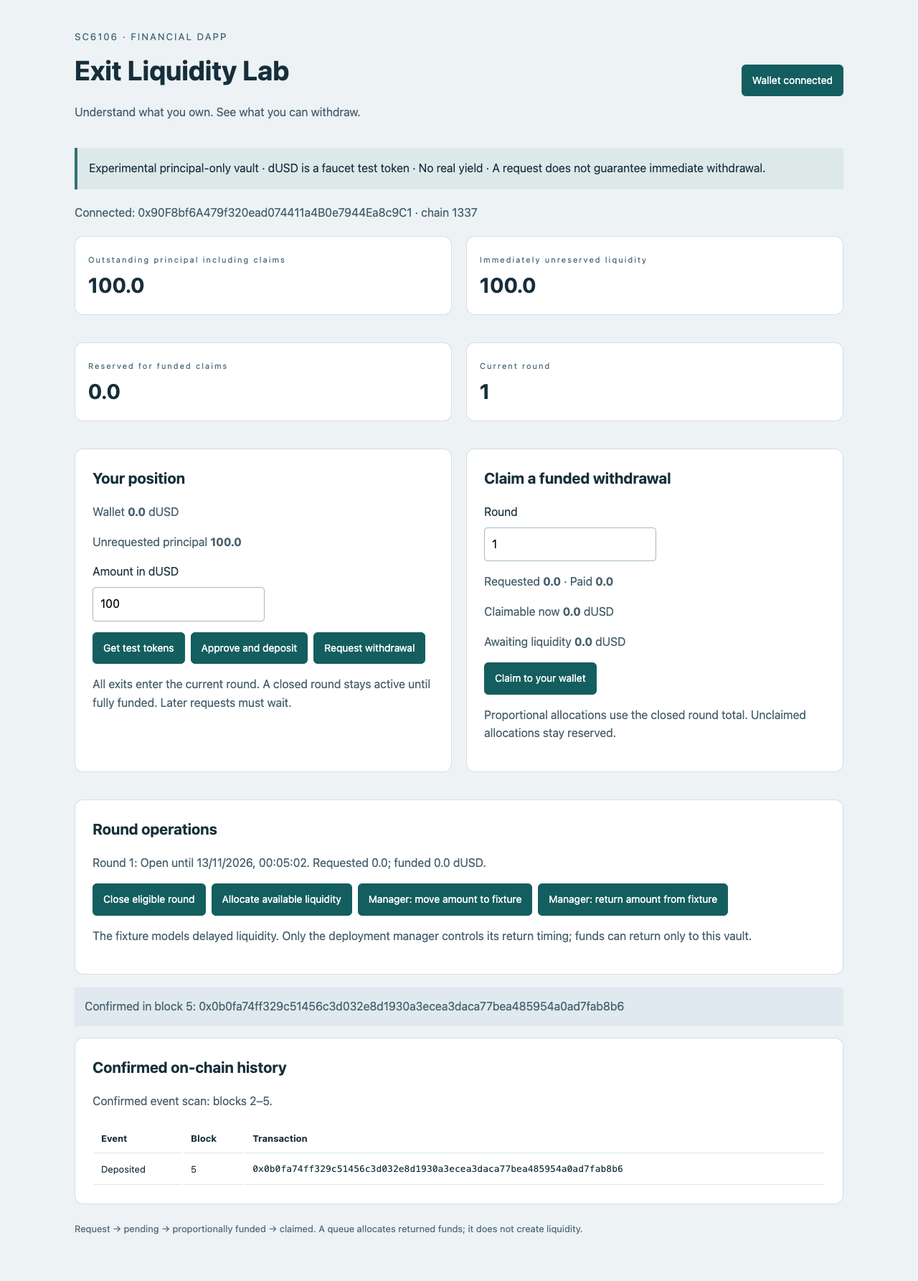
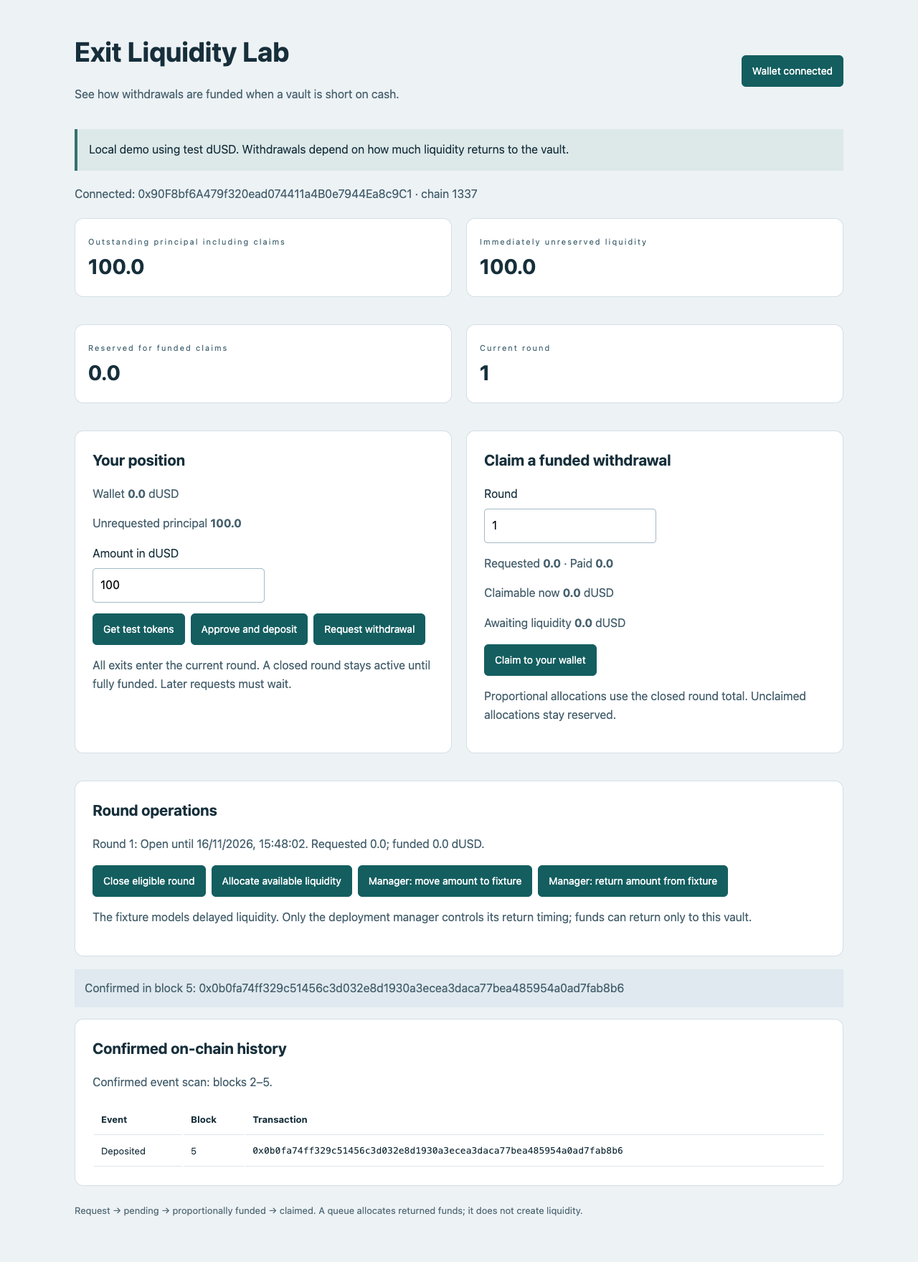
Present Exit Liquidity Lab as a standalone project

diff --git a/public/index.html b/public/index.html
@@ -9,15 +9,13 @@
     <main>
       <header>
         <div>
-          <small>SC6106 · FINANCIAL DAPP</small>
           <h1>Exit Liquidity Lab</h1>
-          <p>Understand what you own. See what you can withdraw.</p>
+          <p>See how withdrawals are funded when a vault is short on cash.</p>
         </div>
         <button id="connect">Connect MetaMask</button>
       </header>
       <aside>
-        Experimental principal-only vault · dUSD is a faucet test token · No
-        real yield · A request does not guarantee immediate withdrawal.
+        Local demo using test dUSD. Withdrawals depend on how much liquidity returns to the vault.
       </aside>
       <p id="account">
         Wallet disconnected. Public vault data remains visible.

diff --git a/scripts/create_report.py b/scripts/create_report.py
@@ -4,7 +4,7 @@ from reportlab.platypus import SimpleDocTemplate,Paragraph,Spacer,PageBreak,Tabl
 from reportlab.lib import colors
 from reportlab.lib.styles import getSampleStyleSheet,ParagraphStyle
 from reportlab.lib.enums import TA_LEFT
-p=Path(__file__).resolve().parents[1]; tests=json.loads((p/'evidence/tests.json').read_text()); gas=tests['gasLastObserved']; out=[]; text=[]
+p=Path(__file__).resolve().parents[1]; tests=json.loads((p/'evidence/tests.json').read_text()); gas=tests['gasLastObserved']; stress=json.loads((p/'evidence/stress.json').read_text()); out=[]; text=[]
 styles=getSampleStyleSheet();styles.add(ParagraphStyle(name='Body',fontName='Helvetica',fontSize=10,leading=14,spaceAfter=9));styles.add(ParagraphStyle(name='SmallText',fontName='Helvetica',fontSize=8.1,leading=11,spaceAfter=7));styles['Title'].fontName='Helvetica-Bold';styles['Title'].fontSize=23;styles['Title'].leading=27;styles['Title'].textColor=colors.black;styles['Title'].alignment=TA_LEFT
 for n in ['Heading1','Heading2']:styles[n].textColor=colors.black;styles[n].spaceBefore=10;styles[n].spaceAfter=8
 
@@ -15,10 +15,10 @@ def table(rows,widths=None):
  data=[[Paragraph(html.escape(str(x)),styles['SmallText']) for x in r]for r in rows];t=Table(data,colWidths=widths,repeatRows=1,hAlign='LEFT');t.setStyle(TableStyle([('BACKGROUND',(0,0),(-1,0),colors.HexColor('#dce6ec')),('GRID',(0,0),(-1,-1),.5,colors.HexColor('#d9d9d9')),('VALIGN',(0,0),(-1,-1),'MIDDLE'),('LEFTPADDING',(0,0),(-1,-1),8),('RIGHTPADDING',(0,0),(-1,-1),8),('TOPPADDING',(0,0),(-1,-1),7),('BOTTOMPADDING',(0,0),(-1,-1),7)]));out.append(t);out.append(Spacer(1,10));text.extend(' | '.join(map(str,r))for r in rows)
 def page():out.append(PageBreak())
 # 1
-out.append(Paragraph('DeFi Vault Withdrawal and Liquidity Stress Lab',styles['Title']));para('SC6106 Individual Assignment<br/>Blockchain Development Fundamentals Part 1<br/>13 November 2026',True)
+out.append(Paragraph('Exit Liquidity Lab',styles['Title']));para('Proportional withdrawals when a vault is short on cash<br/>Maxine Koh Xin Yi',True)
 h('Introduction')
-para('Exit Liquidity Lab is a financial decentralized application that records withdrawal requests and allocates limited returned liquidity proportionally within a closed cohort. It demonstrates Solidity financial rules, a wallet-driven web interface, a Node.js backend and evidence-based evaluation. The implementation is a principal-only local prototype: it manages test tokens, earns no yield and uses a controlled liquidity fixture.')
-para('The main result is bounded. Contract tests and browser integration demonstrate safe accounting for the exercised scenarios. A synthetic comparison shows that proportional settlement gives all participants an earlier partial allocation, while FIFO completes some withdrawals earlier. The mechanism distributes accessible money; it cannot create liquidity or guarantee repayment.')
+para('Exit Liquidity Lab asks how a vault should split the cash it actually has when several people want to withdraw at once. The project implements proportional funding in Solidity and compares it with queue-based policies. A local test token and a fixture with controlled return times make it possible to repeat the same shortage.')
+para('In the synthetic comparison, proportional settlement puts some cash in reach of every requester at the first checkpoint. FIFO completes the first withdrawal sooner. In either case, the same amount of liquidity returns.')
 h('Problem Statement')
 para('Lending and yield vault depositors can own claims on assets that are not immediately available. Borrowers may be using the assets, or strategies may require time and operational actions to unwind. Aave documents that withdrawal access depends on unborrowed liquidity; at full utilization, suppliers wait for repayments or additional supply [1]. A balance therefore expresses an entitlement, not an unconditional promise of immediate cash.')
 para('The engineering problem is how to record competing exit requests, allocate recovered funds under a published policy and distinguish pending entitlements from funded claims. Ordinary sequential withdrawals can make outcomes sensitive to transaction order. A proportional policy reduces that sensitivity within one cohort, at the cost of batching delay and partial rather than complete payments.')
@@ -40,7 +40,7 @@ para('Transaction path: browser action → MetaMask signature → Ethereum JSON-
 para('The manager can deploy free funds only before any current-cohort request exists. Anyone can close an expired round or settle a closed round. Settlement reserves available tokens for existing requests. Each depositor claims to the address that created the request. The fixture manager can withhold returns indefinitely, making its liquidity assumption explicit rather than suggesting autonomous investment performance.')
 sub('Technologies Used')
 para('Solidity 0.8.38 compiles for the Shanghai EVM with optimizer enabled for 200 runs. Ethers 6.17.0 constructs calls and reads receipts. Ganache 7.9.2 supplies a deterministic local Ethereum environment. Node.js provides a minimal HTTP backend; the frontend uses HTML, CSS and JavaScript modules. A package lock pins dependency resolution. No database is required because confirmed contract events reconstruct activity.')
-para('Local verification used chain ID 1337. Sepolia is the brief\'s recommended public test network, and deployment scripts accept an external RPC URL and dedicated deployer key. No Sepolia deployment or explorer evidence has been produced. Similarly, wallet integration uses the MetaMask-compatible EIP-1193 interface, but the automated browser run used an injected local provider rather than the actual extension. These acceptance gaps are listed explicitly.')
+para('Verification used local chain ID 1337. The browser test exercised the wallet interface through an injected provider. Testing with the MetaMask extension and deployment on Sepolia are still open.')
 para('The API exposes /api/config, /api/state and /api/history. History scans at most 5,000 recent blocks and declares truncation. Re-reading events after refresh avoids presenting transient browser memory as permanent transaction history. A production indexer would need pagination, persistence and chain-reorganization handling.')
 #4
 page();h('Smart Contract Design')
@@ -62,7 +62,7 @@ sub('Security privacy and ethics')
 para('Authorization rests on msg.sender, not a backend session. Public reads require no login; there are no protected backend mutation endpoints. The backend stores no wallet keys. Public addresses and transactions are observable and pseudonymous, not private. No names, financial documents or personal identifiers are placed on-chain. The interface labels the faucet asset and absence of actual yield. Testing is not an audit, and no real-money suitability is asserted.',True)
 #6
 page();h('Testing and Results')
-para(f'The regression runner passed {tests["passed"]} named assertions. An independent state-machine oracle checked 480 actions across six seeds, including 339 mined reverts and 17,613 assertions. A separate 32-depositor test used 17 funding installments and recovered every base unit after full funding. These bounded randomized and scenario tests are not exhaustive fuzzing or a formal proof.')
+para(f'The regression runner passed {tests["passed"]} named assertions. An independent state-machine oracle checked {stress["steps"]} actions across six seeds, including {stress["reverts"]} mined reverts and {stress["assertions"]:,} assertions. A separate 32-depositor test used 17 funding installments and recovered every base unit after full funding. These bounded randomized and scenario tests are not exhaustive fuzzing or a formal proof.')
 para('A separate headless Chrome run exercised connection, faucet mint, approval, deposit, fixture deployment, withdrawal request, closure, settlement and claim against the local HTTP backend and chain. A 100-token deposit with 60 deployed produced a 40-token partial claim and 60 outstanding principal. The history API returned confirmed events; the browser recorded no page errors. Responsive desktop and mobile captures are included. Six HTTP cases and four simulated wallet-error cases also passed. Actual extension testing and human usability remain unverified.')
 table([['Operation','Last observed gas'],['Deposit',gas['deposit']],['Settle',gas['settle']],['Claim',gas['claim']]],[250,245])
 para('Gas values are last-observed successful local transactions from the test runner, not averages. Storage state differs between operations; there is no production fee or throughput inference. Source: evidence/tests.json. No statistically meaningful confirmation-latency study was conducted.',True)
@@ -80,16 +80,15 @@ para('A closed cohort blocks later requests until fully funded, introducing cros
 h('Future Improvements')
 para('First complete actual MetaMask acceptance and Sepolia evidence. Next add a single lending adapter on a pinned fork, then share-based yield accounting with an explicit rule for gains and losses while requests wait. Compare idle-liquidity buffers under stated yield assumptions. Introduce independently reviewed full-precision arithmetic and broader invariant/fuzz tests before increasing economic complexity. A persistent event indexer should reconcile reorgs and paginate history.')
 h('Conclusion')
-para('Exit Liquidity Lab implements a complete local withdrawal workflow and demonstrates proportional allocation with reserved claims. Its main analytical finding is a measurable trade-off between broad partial access and early individual completion. The strongest contribution is the connection between documented liquidity constraints, explicit financial policy, executable controls and reproducible evidence. The current results establish a tested educational prototype within stated assumptions, not a production vault or a cure for liquidity risk.')
+para('Spreading each funding installment across the round gives all requesters earlier access to some of their money in this example. FIFO gets the earliest requester out sooner. The contract makes its choice explicit, tracks funded claims, and leaves the timing of future returns to the fixture. That timing is the main limitation for later rounds.')
 #8
 page();h('References')
 refs=[('1','Aave','Protocol Risks','https://aave.com/docs/resources/risks'),('2','L. Heimbach, E. Schertenleib and R. Wattenhofer','DeFi Lending During The Merge. Advances in Financial Technologies 2023; arXiv version 3','https://arxiv.org/html/2303.08748v3'),('3','Aave Governance, P. Lei','Q4 2022 Risk-Off Measures. 1 December 2022','https://governance.aave.com/t/q4-2022-risk-off-measures/10898'),('4','X. Sun, C. Stasinakis and G. Sermpinis','Liquidity Risks in Lending Protocols: Evidence from Aave Protocol. Academic preprint, revised 28 April 2023','https://arxiv.org/abs/2206.11973'),('5','International Monetary Fund','Global Financial Stability Report. April 2022, Chapter 3, liquidity risk discussion and Figure 3.10','https://www.imf.org/-/media/files/publications/gfsr/2022/april/english/ch3.pdf'),('6','Morpho','Liquidity Curation','https://docs.morpho.org/curate/concepts/liquidity/'),('7','Yearn','Deploying and Managing a V3 Multi Strategy Vault','https://docs.yearn.fi/developers/v3/vault_management'),('8','J. Offerijns et al.','ERC-7540 Asynchronous ERC-4626 Tokenized Vaults. Created 18 October 2023','https://eips.ethereum.org/EIPS/eip-7540')]
 for n,a,t,u in refs:para(f'[{n}] {html.escape(a)}. <i>{html.escape(t)}</i>.<br/><link href="{u}" color="#174f72">{html.escape(u)}</link>',True)
 para('Online sources accessed 12 November 2026. Protocol documentation is used for implementation mechanics; the historical study, governance record and institutional report support the problem. No historical case is presented as an empirical test of this prototype.',True)
 sub('Reproducibility record')
-para('Source files, package lock, deployment script, 34-check regression runner, independent stress oracle, policy model and machine-readable evidence accompany this report. Run npm ci and npm run check:all from the source directory. Local demonstration instructions and outstanding public-network acceptance tasks are documented in README.md and SUBMISSION_REVIEW.md. No database export applies.',True)
-para('The technical report contains all eleven requested topics within eight pages, including references. Personal identification and course-specific submission metadata must be supplied separately where required.',True)
+para('Source files, package lock, deployment script, 34-check regression runner, independent stress oracle, policy model and machine-readable evidence accompany this report. Run npm ci and npm run check:all from the source directory. See README.md for the local demo and VERIFICATION.md for the scope of the checks.',True)
 
-def footer(c,d):c.setFont('Helvetica',8);c.setFillColor(colors.HexColor('#536976'));c.drawString(50,28,'SC6106  |  Exit Liquidity Lab');c.drawRightString(545,28,str(d.page))
-SimpleDocTemplate(str(p/'report.pdf'),pagesize=(595.28,841.89),leftMargin=50,rightMargin=50,topMargin=43,bottomMargin=46,title='DeFi Vault Withdrawal and Liquidity Stress Lab',author='').build(out,onFirstPage=footer,onLaterPages=footer)
+def footer(c,d):c.setFont('Helvetica',8);c.setFillColor(colors.HexColor('#536976'));c.drawString(50,28,'Exit Liquidity Lab');c.drawRightString(545,28,str(d.page))
+SimpleDocTemplate(str(p/'report.pdf'),pagesize=(595.28,841.89),leftMargin=50,rightMargin=50,topMargin=43,bottomMargin=46,title='Exit Liquidity Lab',author='Maxine Koh Xin Yi').build(out,onFirstPage=footer,onLaterPages=footer)
 (p/'report-source.txt').write_text('\n\n'.join(text))

diff --git a/README.md b/README.md
@@ -1,89 +1,56 @@
 # Exit Liquidity Lab
 
-Repository: https://github.com/maxinekoh/exit-liquidity-lab (private). This is an educational prototype, not a production vault. See AUDIT_FINDINGS.txt for the technical and academic review and SUBMISSION_GUIDE.txt for hand-in instructions.
+What happens when three people want to withdraw 500 tokens and a vault can return only 200? This project compares two ways to handle that shortage and implements one of them in Solidity.
 
+Suppose the requests arrive in the order 100, 150, then 250. The first 200 tokens would be distributed like this:
 
-SC6106 individual assignment first draft. A principal-only financial DApp for proportional asynchronous withdrawals. Test assets only; no production funds, actual yield, ERC-4626/7540 compliance or independent audit is claimed.
+| Policy | 100-token request | 150-token request | 250-token request |
+| --- | ---: | ---: | ---: |
+| First in, first out | 100 | 100 | 0 |
+| Proportional within the round | 40 | 60 | 100 |
 
-## Reproduce locally
+FIFO finishes one withdrawal immediately. With proportional funding, everyone gets 40% of their request and everyone still has money waiting. The vault uses the proportional rule. The [benchmark](evidence/benchmark.json) puts both policies through the same sequence of liquidity returns.
 
-Use Node.js 22 or 24 and npm. From this directory:
+![Local demo showing a partially funded withdrawal](evidence/interface-partial.png)
+
+## How withdrawals work
+
+Users deposit a six-decimal test token and request a withdrawal during an open round. Once the round closes, the contract uses the original requests and total funding received to calculate each person’s share. Users can claim the funded portion while the rest waits. The next round opens once the current requests are fully funded, even if some users have yet to collect their reserved tokens.
+
+The demo's liquidity fixture lets a manager control when tokens come back. It can return funds only to the vault, and the manager can delay a return indefinitely. A round that stays underfunded also delays later requests. The vault tracks principal only, using a test token and simulated liquidity returns.
+
+The [technical report](report.pdf) explains the allocation math, how rounding works across installments, and where the design runs out of room.
+
+## Run it locally
+
+Use Node.js 22 or 24. From the repo folder:
 
 ```sh
 npm ci
 npm run compile
-npm run check:all
 ```
 
-Open three terminals in this directory:
+Start the local chain in one terminal:
 
 ```sh
-# Terminal 1: deterministic LOCAL test accounts only
 npm run chain
 ```
 
+In another terminal, deploy the contracts and start the web app:
+
 ```sh
-# Terminal 2: creates deployment.json for this chain
 npm run deploy
-# Start server after deployment
 npm start
 ```
 
-Open http://127.0.0.1:3000 in a browser with MetaMask. Add the LOCAL network RPC http://127.0.0.1:18545, chain ID 1337, currency ETH. Use only disposable local Ganache test accounts, never existing real-money keys. Ganache prints its public deterministic test keys; import an account into a separate test wallet if needed. These keys are publicly known and are not suitable for any public network.
+Open <http://127.0.0.1:3000>. Connect MetaMask to the local RPC at `http://127.0.0.1:18545`, chain ID `1337`. Use a disposable wallet with a local Ganache account.
 
-The first deployer is the fixture manager. Other users may deposit, request and claim; anyone may close an eligible round and settle actual available liquidity. The server never signs transactions or asks for private keys. A database is unnecessary: contract events reconstruct confirmed history. API scans the last 5,000 blocks and labels truncation; it is not a production indexer.
+To see a partial withdrawal, mint and deposit 100 test dUSD with the deployer account. Move 60 to the fixture, request 100, and wait for the round to close. Close and settle it, then claim the 40 already available. Return the other 60 from the fixture, settle again, and claim the rest.
 
-Defaults: RPC_URL=http://127.0.0.1:18545, PORT=3000, ROUND_SECONDS=120. Override via shell environment. Restart or redeploy if the local chain is reset. Deployment addresses in the evidence are local and will not identify contracts on Sepolia.
+## Tests and evidence
 
-## Demonstration
+Run `npm run check:all` to compile the contracts, run the regression and stress suites, and reproduce the synthetic comparison. The [recorded stress run](evidence/stress.json) covers 480 state transitions and a 32-user case funded in 17 installments. The [browser test](test/browser-qa.cjs) uses an injected wallet against the local chain and backend. MetaMask extension and Sepolia testing are still open.
 
-1. Connect MetaMask. Get 100 test dUSD; approve and deposit 100.
-2. Before requests exist, manager moves 60 to the fixture.
-3. Request 100 in the open round. Wait for its close timestamp.
-4. Close the round and settle. Of the 100 requested, 40 is claimable.
-5. Claim 40. Remaining principal is 60; a repeated claim fails.
-6. Manager returns 60 from the fixture; settle again, then claim the rest.
-7. The next round opens on full funding, independently of claim timing.
-
-For three-wallet proportional behavior deposit/request 100, 150 and 250; move 300 of the combined 500 to the fixture before any requests. Initial 200 liquidity allocates 40, 60 and 100. All participants in that closed round retain their original proportions on cumulative funding. No later cohort opens until this cohort is fully funded. Empty expired rounds can be advanced by anyone.
-
-## Design and files
-
-- contracts/ExitVault.sol: vault, conventional six-decimal demo token, delayed-liquidity fixture.
-- scripts/compile.mjs and deploy.mjs: compiler and deployment.
-- public/: responsive HTML/CSS/JS and MetaMask EIP-1193 connector.
-- server.mjs: Node.js read-only configuration, state and confirmed-event APIs.
-- test/run.mjs: 34 regression checks. test/stress.mjs adds 480 state-machine actions, 339 mined reverts, 17,613 assertions and a 32-user/17-installment case.
-- scripts/benchmark.mjs: synthetic policy comparison; not historical replay.
-- evidence/: machine-readable results and actual local interface screenshots.
-- report.pdf and report-source.txt: eight-page report and editable plain-text narrative.
-
-No private deployment key is bundled. deployment.json is a public local configuration, not a credential. node_modules is excluded from the distributable ZIP; npm ci restores dependencies from package-lock.json.
-
-## Security and economic boundaries
-
-Only the fixed test token is supported. The faucet is deliberately unrestricted; it has no monetary value. Exact balance-delta checking rejects fee-taking deposits, but does not make arbitrary token behavior safe. There is no rescue function, proxy, strategy selection, performance fee, interest or loss recognition. The manager can delay returns indefinitely, but the fixture can transfer only to the vault. Pending requests cannot be cancelled in this version. New deposits do not confer priority; they may provide cash to existing requests while retaining their own principal claim. This is liquidity substitution, not new wealth.
-
-Depositor requests remain in a closed cohort until fully funded; later depositors can be temporarily or indefinitely blocked from requesting. No fixed completion date is promised. Fully funded claims remain reserved and cannot be redeployed. Direct token donations are excess assets and not credited as principal. Proportional integer division can leave temporary dust; full funding makes each original requested amount exactly payable. MAX_PRINCIPAL caps outstanding principal at 10^18 base units (10^12 dUSD). Since q and F are each bounded by it, their product fits uint256. No full-precision mulDiv library is required under this bound.
-
-## Verification status
-
-Verified: compilation; in-memory local deployment; 34 regression checks; expanded state-machine and scale tests; 901 synthetic model scenario/permutation pairs; browser workflow and backend with a local injected EIP-1193 provider. The browser harness is NOT the MetaMask extension. Responsive screenshots are real application captures. The controlled strategy simulates delayed liquidity.
-
-Outstanding: actual MetaMask-extension acceptance testing, Sepolia deployment and public explorer evidence, human usability evaluation, large randomized adversarial campaigns, malicious-token testing, real protocol adapter, loss/yield accounting and independent security review. See SUBMISSION_REVIEW.md. No grade or production-safety guarantee is implied.
-
-## Sepolia deployment path
-
-Use a dedicated funded testnet deployer and a trusted Sepolia RPC endpoint. Set RPC_URL, DEPLOYER_KEY and ROUND_SECONDS in the process environment; do not commit keys or include them in screenshots. Run npm run compile then npm run deploy. DEPLOYER_KEY is required on public RPC endpoints that do not expose unlocked signers. Restart the backend with that RPC_URL. deployment.json supplies chain ID 11155111 to the frontend. Add Sepolia in MetaMask, execute the full workflow, and record contract address, deployment hash and explorer receipts in evidence before claiming Sepolia verification. Script support does not establish successful deployment.
-
-## Optional browser and report tools
-
-The portable browser harness requires Playwright and installed Google Chrome. In a disposable checkout, install Playwright separately, start a fresh local deployment with ROUND_SECONDS=600 and backend PORT=13000, then run `node test/browser-qa.cjs`. It injects local unlocked test accounts and advances local EVM time; never point it at public networks. Screenshot output is under evidence/. Actual MetaMask acceptance still needs manual testing.
-
-To rebuild the PDF after editing the narrative in scripts/create_report.py, install requirements-report.txt into a Python environment and run that script. report-source.txt is an exported text version; changing it alone does not rebuild the PDF.
-
-## Dependency review
-
-Runtime ethers is pinned to 6.17.0. Solidity compiler 0.8.38 uses a targeted tmp 0.2.7 override. Ganache, solc and formatters are development dependencies. Final full-tree npm audit records 33 advisories (five critical) in Ganache's bundled development subtree. They remain unresolved: restricting use to disposable, localhost test environments reduces exposure but does not fix them. Do not report this toolchain as vulnerability-free. npm's omit-dev audit still reports bundled entries; use the recorded installed runtime tree to distinguish actual runtime packages. A future production setup should replace this legacy chain tooling.
-
-For runtime-only installations after compilation and deployment, `npm ci --omit=dev` excludes the local chain and compiler. Keep generated artifacts and deployment configuration; they are intentionally ignored by Git.
+- [Contract](contracts/ExitVault.sol) handles round timing, allocation, and claims.
+- [Node server](server.mjs) reads vault state and confirmed events. The wallet signs transactions.
+- [Verification notes](VERIFICATION.md) cover test scope and dependency findings.

diff --git a/VERIFICATION.md b/VERIFICATION.md
@@ -1,0 +1,9 @@
+# Verification notes
+
+The vault tests check that claims stay within funded amounts, that paid amounts cannot be claimed again, and that outstanding principal reconciles with the vault and fixture balances. The [regression run](evidence/tests.json) records 34 checks. The [stress run](evidence/stress.json) records 480 actions across six reproducible seeds and a separate 32-user case spanning 17 funding installments.
+
+The [browser run](evidence/browser-qa.json) goes from a 100 dUSD deposit to a 40 dUSD partial claim, leaving 60 dUSD outstanding. It uses an injected wallet and a local chain. The [HTTP and wallet checks](evidence/http-wallet-errors.json) cover API responses and simulated wallet errors. The benchmark uses synthetic liquidity returns.
+
+The contract supports the fixed demo token. The aggregate principal cap bounds the multiplication used in proportional allocation. Closed rounds can delay later requests indefinitely if the fixture manager withholds funds. The prototype uses local test assets and has had no independent security audit.
+
+The recorded [full dependency audit](evidence/npm-audit-all.json) lists 33 advisories, including five critical, in Ganache's development dependency tree. Keep the local chain on loopback and use disposable test accounts. The [runtime tree](evidence/runtime-tree.txt) and [clean-install record](evidence/clean-install.json) are included separately.
